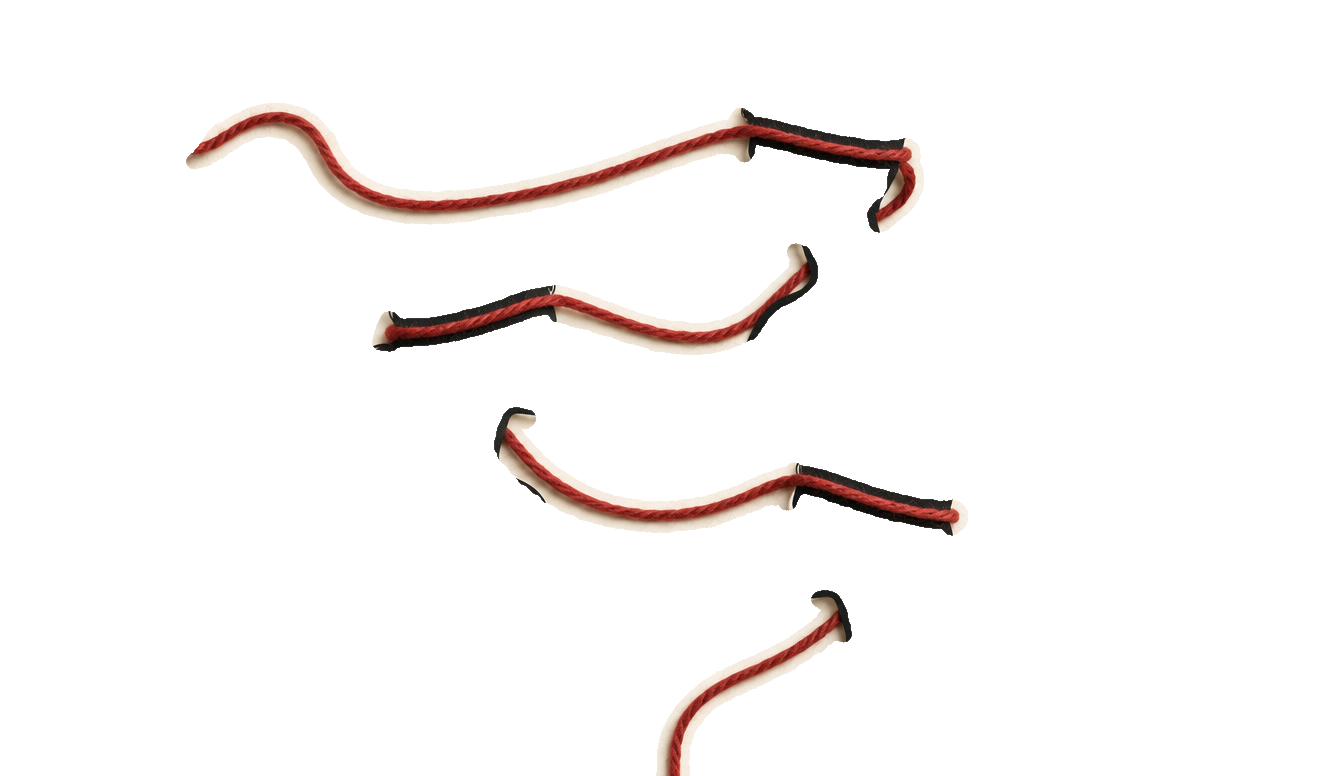
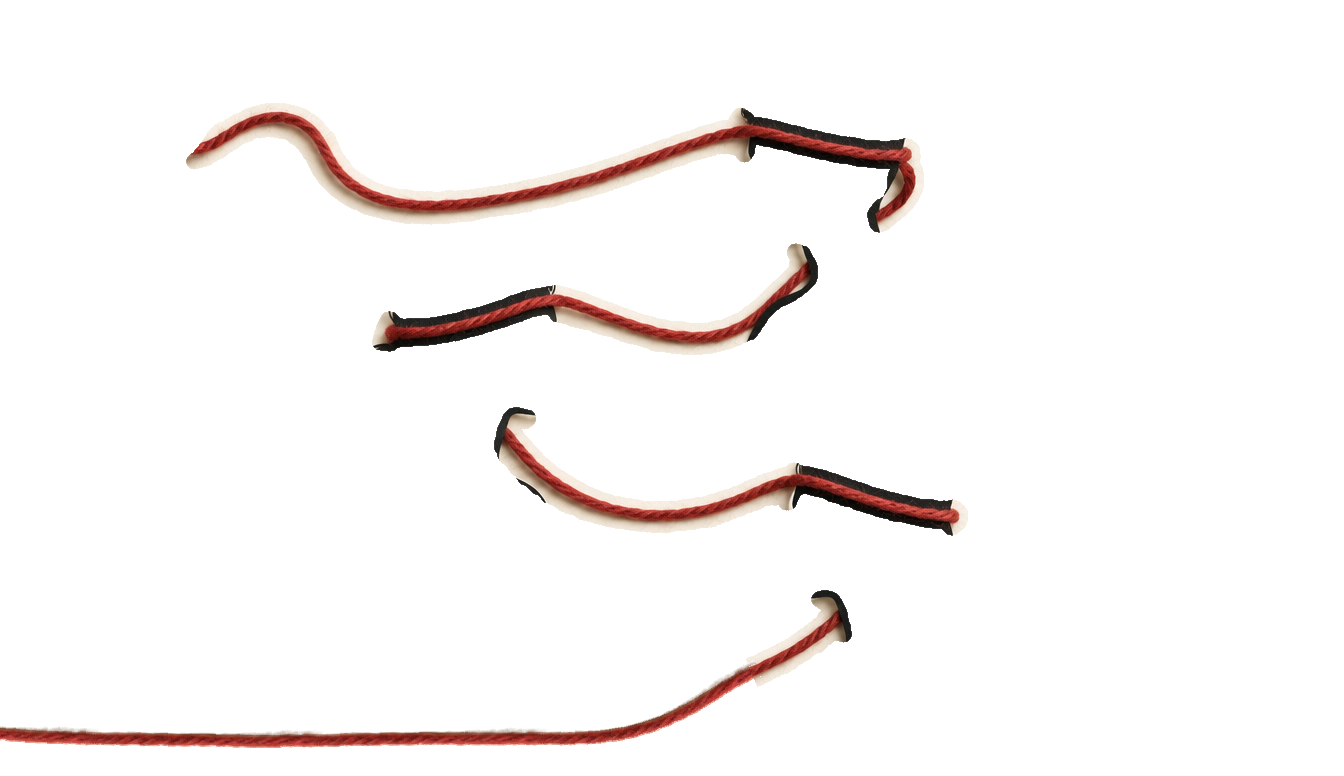
Matassa: il filo esce di scena a sinistra, matassa in alto a sinistra al telefono, meno vuoto
Claude-Session: https://claude.ai/code/session_01K8S9kDcMmADtdHMs7poTsz

Changed region(s): [[0.0, 0.8351, 0.5625, 1.0]]

diff --git a/assets/css/site.css b/assets/css/site.css
@@ -1199,15 +1199,15 @@ body.carta.menu-open .nav.solid{background:var(--paper);border-color:var(--paper
 
 /* ===== PRO-FILI: la matassa dell'apertura (2/10) =====
    Un palco fisso prima dell'apertura: la foto resta ferma in fondo allo schermo mentre
-   la pagina scorre e il filo di lana si srotola, poi esce di scena dal bordo basso.
-   I bordi della foto sfumano nella carta. */
+   la pagina scorre e il filo di lana si srotola, poi esce di scena a sinistra.
+   I bordi della foto sfumano appena nella carta. */
 .matassa{position:relative;height:260vh;background:var(--paper)}
 .matassa-palco{position:sticky;top:0;height:100vh;height:100svh;overflow:hidden;
   display:flex;flex-direction:column;justify-content:flex-end;align-items:center}
 .matassa-tela{position:relative;width:min(100%, calc((100svh - 96px) * 1344 / 776));aspect-ratio:1344/776;
-  -webkit-mask-image:linear-gradient(to right,transparent,#000 3%,#000 97%,transparent),linear-gradient(to bottom,transparent,#000 1.5%,#000 88%,transparent);
+  -webkit-mask-image:linear-gradient(to right,transparent,#000 3%,#000 97%,transparent),linear-gradient(to bottom,transparent,#000 1.5%,#000 98.5%,transparent);
   -webkit-mask-composite:source-in;
-  mask-image:linear-gradient(to right,transparent,#000 3%,#000 97%,transparent),linear-gradient(to bottom,transparent,#000 1.5%,#000 88%,transparent);
+  mask-image:linear-gradient(to right,transparent,#000 3%,#000 97%,transparent),linear-gradient(to bottom,transparent,#000 1.5%,#000 98.5%,transparent);
   mask-composite:intersect}
 .matassa-tela canvas{position:absolute;inset:0;width:100%;height:100%;display:block}
 .matassa-scorri{position:absolute;left:0;right:0;top:18%;margin:0;text-align:center;pointer-events:none;
@@ -1219,11 +1219,12 @@ body.carta.menu-open .nav.solid{background:var(--paper);border-color:var(--paper
 @media (prefers-reduced-motion:reduce){.matassa{height:100vh;height:100svh}}
 /* schermo in verticale: il taglio «stretto» della foto (matassa.js), largo quanto lo schermo */
 @media (max-aspect-ratio:1/1){
-  .matassa-palco{justify-content:center}
+  .matassa-palco{justify-content:center;padding-top:76px}
   .matassa-scorri{top:auto;bottom:calc(22px + env(safe-area-inset-bottom))}
-  .matassa-tela{width:min(100%, calc((100svh - 96px) * 560 / 776));aspect-ratio:560/776;
-    -webkit-mask-image:linear-gradient(to bottom,transparent,#000 1.5%,#000 88%,transparent);
-    mask-image:linear-gradient(to bottom,transparent,#000 1.5%,#000 88%,transparent)}
+  .matassa-tela{width:min(100%, calc((100svh - 96px) * 500 / 776));aspect-ratio:500/776;
+    -webkit-mask-image:linear-gradient(to bottom,transparent,#000 1.5%,#000 98.5%,transparent);
+    mask-image:linear-gradient(to bottom,transparent,#000 1.5%,#000 98.5%,transparent)}
 }
-/* l'apertura subito sotto: la carta continua, niente riga di separazione */
-.matassa + .page-hero{border-top:0}
+/* l'apertura subito sotto: la carta continua, niente riga di separazione e poco spazio
+   sopra (la barra non la copre: sopra c'e' la matassa) */
+.matassa + .page-hero{border-top:0;padding-top:calc(64px + 3vw)}

diff --git a/assets/js/matassa.js b/assets/js/matassa.js
@@ -2,10 +2,10 @@
    Prima dell'apertura c'e' un palco fisso (#matassa) con una foto: una matassa di lana
    rossa e tre profili di carta nera. Mentre la pagina scorre, il filo di lana della foto
    ricompare pezzo per pezzo nell'ordine in cui si srotola: parte dalla matassa (che
-   gira), lega il primo profilo, passa dietro la nuca, lega il secondo e il terzo ed
-   esce di scena dal fondo del palco, mentre la pagina prosegue con l'apertura.
+   gira), lega il primo profilo, passa dietro la nuca, lega il secondo e il terzo,
+   scende e scorre via fuori scena a sinistra, mentre la pagina prosegue con l'apertura.
    Due tagli della foto (assets/img/matassa/): «largo» per gli schermi orizzontali,
-   «stretto» per quelli verticali, dove la matassa e' avvicinata al primo profilo.
+   «stretto» per quelli verticali, piu' vicino, con la matassa spostata in alto a sinistra.
    Per ogni taglio tre immagini:
    - base.webp: la foto senza filo;
    - filo.webp: solo il filo, con la trasparenza;
@@ -24,8 +24,8 @@
 
   // per ogni taglio: misure, la matassa (centro e raggio) e il capo (3 px su tutto il percorso)
   var TAGLI = {
-    largo:   { W: 1344, H: 776, palla: { x: 133, y: 92, r: 73 }, punta: 3 / 2594 },
-    stretto: { W: 560,  H: 776, palla: { x: 98, y: 130, r: 73 }, punta: 3 / 2200 }
+    largo:   { W: 1344, H: 776, palla: { x: 133, y: 92, r: 73 }, punta: 3 / 3285 },
+    stretto: { W: 500,  H: 776, palla: { x: 89, y: 80, r: 73 }, punta: 3 / 3000 }
   };
   var DIR = 'assets/img/matassa/';
   var scena = null;   // il taglio caricato: immagine di base, pixel del filo, tempi

diff --git a/index.html b/index.html
@@ -20,7 +20,7 @@
 <link rel="preload" as="font" type="font/woff2" href="assets/fonts/jost-300-latin.woff2" crossorigin>
 <link rel="preload" as="font" type="font/woff2" href="assets/fonts/cormorant-garamond-300-latin.woff2" crossorigin>
 <link rel="preload" as="font" type="font/woff2" href="assets/fonts/cormorant-garamond-300-italic-latin.woff2" crossorigin>
-<link rel="stylesheet" href="assets/css/site.css?v=20261002h">
+<link rel="stylesheet" href="assets/css/site.css?v=20261002i">
 <!-- senza JavaScript il calendario e il menu non funzionano: meglio non mostrarli -->
 <noscript><style>[data-ics],.burger{display:none!important}</style></noscript>
 </head>
@@ -561,7 +561,7 @@
 </footer>
 
 <!-- prima la matassa: se c'e', site.js aspetta che l'apertura sia a schermo per disegnare il filo colorato -->
-<script src="assets/js/matassa.js?v=20261002h" defer></script>
-<script src="assets/js/site.js?v=20261002h" defer></script>
+<script src="assets/js/matassa.js?v=20261002i" defer></script>
+<script src="assets/js/site.js?v=20261002i" defer></script>
 </body>
 </html>

diff --git a/assets/js/site.js b/assets/js/site.js
@@ -1533,6 +1533,8 @@
         az = box(hero.querySelector('.ag-actions')), conto = box(document.getElementById('conto'));
     var testi = [logo, h1, sub, meta, az, conto].filter(Boolean);
     var nav = document.querySelector('.nav'), navH = nav ? nav.offsetHeight : 64;
+    // con la matassa prima, l'apertura non parte sotto la barra: lo spazio in alto e' tutto suo
+    if (document.getElementById('matassa')) navH = 8;
     var pts = null;
     // 1) accanto al titolo, nello spazio vuoto a destra: esce dal logo alla sua altezza,
     //    entra nel primo giro dall'alto (cosi' resta sopra il titolo), poi il secondo giro
